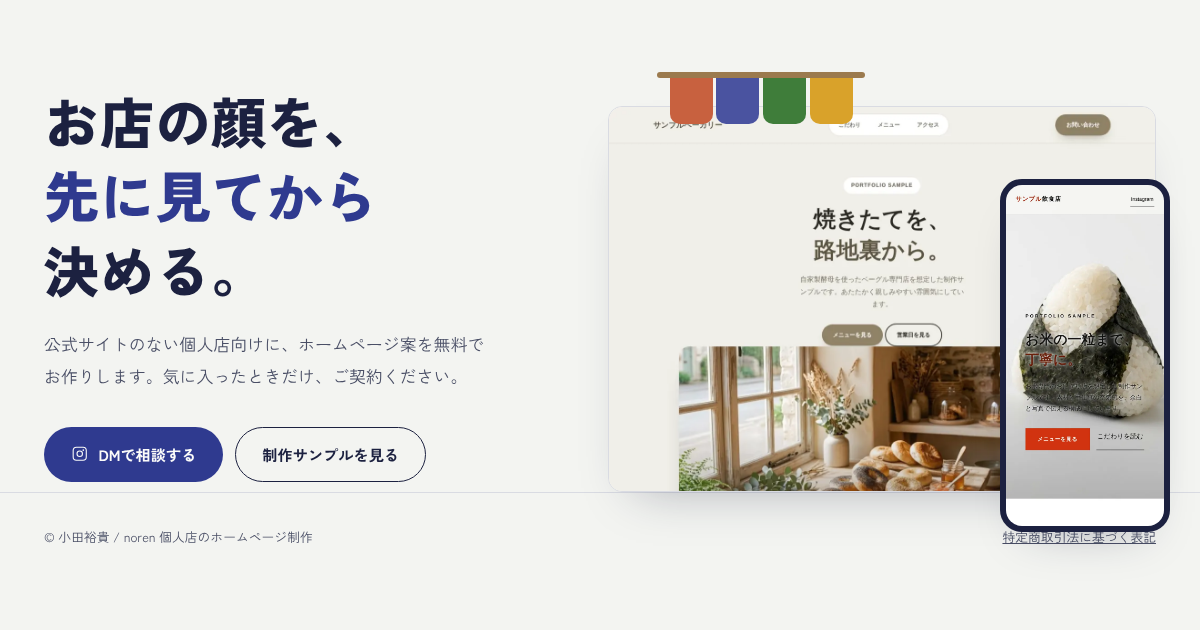
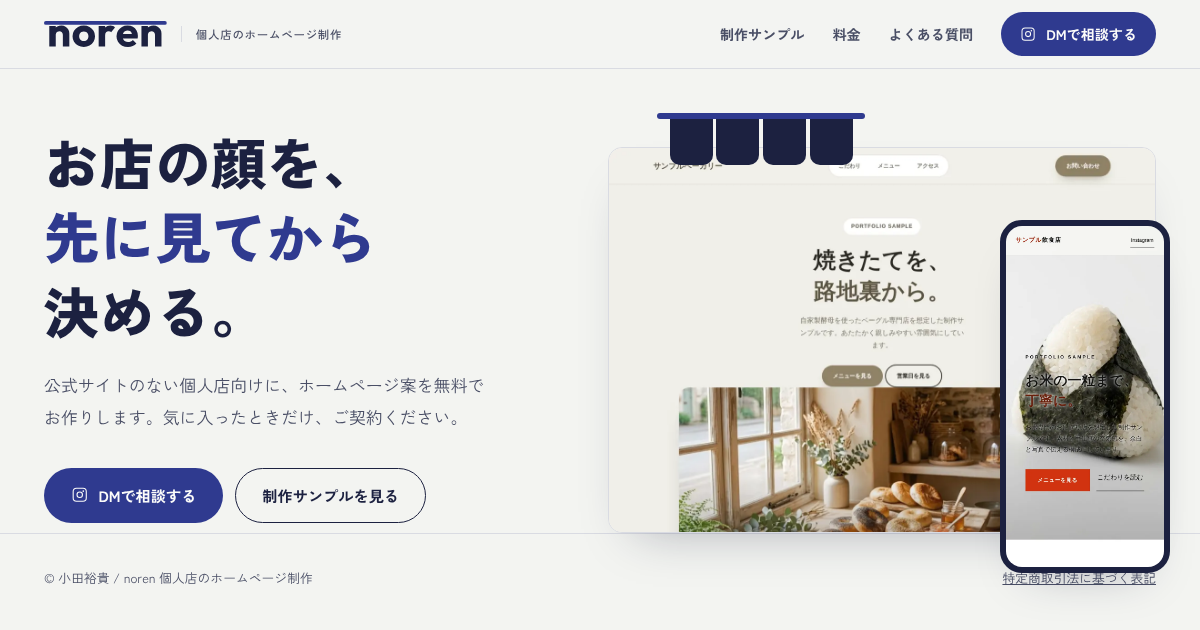
ロゴをD案(ワードマーク)に刷新
- ヘッダーをアウトライン化したワードマークSVGに変更
- favicon / apple-touch-icon / OGP画像を新ロゴで作り直し
- ヒーローと流れセクションのモチーフを藍と墨にそろえた

Claude-Session: https://claude.ai/code/session_01UPEPYMqqgQDRzwyjYxDbfw

diff --git a/portfolio/index.html b/portfolio/index.html
@@ -16,8 +16,9 @@
 <meta property="og:image" content="https://yuukioda999.github.io/web-mockups/portfolio/assets/og.png">
 <meta property="og:locale" content="ja_JP">
 <meta name="twitter:card" content="summary_large_image">
-<link rel="icon" href="./assets/icon-192.png">
-<link rel="apple-touch-icon" href="./assets/icon-192.png">
+<link rel="icon" href="./assets/favicon.svg" type="image/svg+xml">
+<link rel="icon" href="./assets/icon-192.png" type="image/png" sizes="192x192">
+<link rel="apple-touch-icon" href="./assets/apple-touch-icon.png">
 <link rel="preconnect" href="https://fonts.googleapis.com">
 <link rel="preconnect" href="https://fonts.gstatic.com" crossorigin>
 <link href="https://fonts.googleapis.com/css2?family=Zen+Kaku+Gothic+New:wght@400;500;700;900&display=swap" rel="stylesheet">
@@ -31,7 +32,7 @@
   "description":"公式サイトのない個人店向けのホームページ制作サービス。サイト案を無料でお作りし、気に入った場合のみご契約いただけます。",
   "url":"https://yuukioda999.github.io/web-mockups/portfolio/",
   "image":"https://yuukioda999.github.io/web-mockups/portfolio/assets/og.png",
-  "logo":"https://yuukioda999.github.io/web-mockups/portfolio/assets/icon-192.png",
+  "logo":"https://yuukioda999.github.io/web-mockups/portfolio/assets/icon-512.png",
   "email":"yuuki.oda.work@gmail.com",
   "areaServed":{"@type":"Country","name":"日本"},
   "founder":{"@type":"Person","name":"小田裕貴"},
@@ -111,9 +112,10 @@
   .process .noren-rod{height:8px;margin-top:40px;}
   .steps{list-style:none;display:grid;grid-template-columns:repeat(3,1fr);gap:14px;padding:0 3%;}
   .step{border-radius:0 0 var(--r-panel) var(--r-panel);padding:32px 26px 36px;color:#fcfcfa;}
-  .step:nth-child(1){background:#a94f31;}
-  .step:nth-child(2){background:#3d4590;}
-  .step:nth-child(3){background:#326b2e;}
+  .step:nth-child(1){background:#1c2140;}
+  .step:nth-child(2){background:#2f3a8f;}
+  .step:nth-child(3){background:#4a53a0;}
+  @media (prefers-color-scheme:dark){.step{box-shadow:inset 0 0 0 1px rgba(255,255,255,.12);}}
   .step h3{font-size:1.15rem;margin-bottom:10px;color:#fcfcfa;}
   .step p{font-size:.93rem;line-height:1.85;color:#f1f1ec;}
 
@@ -134,7 +136,7 @@
   /* about */
   .about{padding-top:0;}
   .about-box{display:grid;grid-template-columns:auto 1fr;gap:28px;align-items:start;max-width:820px;}
-  .about-box img{width:88px;height:88px;border-radius:20px;border:1px solid var(--line);}
+  .about-box .mark{width:88px;height:88px;display:block;}
   .about-box h2{font-size:1.3rem;margin-bottom:4px;}
   .about-box .role{font-size:.86rem;color:var(--ink-2);margin-bottom:12px;}
   .about-box p{color:var(--ink-2);}
@@ -188,7 +190,7 @@
     .plan{padding:28px 22px;}
     .price b{font-size:2rem;}
     .about-box{grid-template-columns:1fr;gap:18px;}
-    .about-box img{width:64px;height:64px;border-radius:16px;}
+    .about-box .mark{width:64px;height:64px;}
     .sp-bar{display:block;position:fixed;left:0;right:0;bottom:0;z-index:40;padding:10px 16px calc(10px + env(safe-area-inset-bottom));background:color-mix(in srgb,var(--bg) 92%,transparent);backdrop-filter:blur(10px);-webkit-backdrop-filter:blur(10px);border-top:1px solid var(--line);transform:translateY(110%);transition:transform .3s ease;}
     .sp-bar.on{transform:none;}
     .sp-bar .btn{width:100%;}
@@ -215,8 +217,8 @@
 <header class="site-head">
   <div class="wrap">
     <a class="brand" href="./" aria-label="noren トップ">
-      <img src="./assets/icon-160.webp" width="40" height="40" alt="">
-      <span><span class="brand-name">noren</span><span class="brand-sub">個人店のホームページ制作</span></span>
+      <svg class="wordmark" viewBox="-71 -604 2904 615" aria-hidden="true"><rect x="-71" y="-604" width="2904" height="89" rx="44.5" class="wm-rod"/><path class="wm-txt" d="M375 0V-277Q375 -315 351.5 -338.5Q328 -362 292 -362Q267 -362 248 -351.5Q229 -341 218 -321.5Q207 -302 207 -277V0H54V-486H207V-448Q223 -462 243 -473Q287 -496 343 -496Q397 -496 438.5 -470.5Q480 -445 504 -403Q528 -361 528 -311V0ZM870 11Q795 11 734.5 -22.5Q674 -56 639 -114Q604 -172 604 -244Q604 -316 639 -373Q674 -430 734 -463.5Q794 -497 870 -497Q946 -497 1006 -464Q1066 -431 1101 -373.5Q1136 -316 1136 -244Q1136 -172 1101 -114Q1066 -56 1006 -22.5Q946 11 870 11ZM870 -128Q903 -128 928 -142.5Q953 -157 966.5 -183.5Q980 -210 980 -244Q980 -278 966 -303.5Q952 -329 927.5 -343.5Q903 -358 870 -358Q838 -358 813 -343.5Q788 -329 774 -303Q760 -277 760 -243Q760 -210 774 -183.5Q788 -157 813 -142.5Q838 -128 870 -128ZM1222 0V-486H1375V-449Q1420 -496 1500 -496Q1535 -496 1561.5 -485.5Q1588 -475 1608 -453L1517 -338Q1507 -349 1492 -355Q1477 -361 1458 -361Q1420 -361 1397.5 -337.5Q1375 -314 1375 -267V0ZM1916 11Q1837 11 1775.5 -21.5Q1714 -54 1679 -112Q1644 -170 1644 -243Q1644 -316 1678.5 -373.5Q1713 -431 1772 -464Q1831 -497 1905 -497Q1977 -497 2032 -466Q2087 -435 2118.5 -380Q2150 -325 2150 -254Q2150 -241 2148.5 -226.5Q2147 -212 2143 -193L1795 -192Q1798 -181 1804 -171Q1819 -140 1847.5 -123.5Q1876 -107 1915 -107Q1951 -107 1980 -119.5Q2009 -132 2031 -157L2115 -73Q2079 -31 2028 -10Q1977 11 1916 11ZM1795 -297 2007 -298Q2004 -312 1999 -324Q1987 -351 1963.5 -365.5Q1940 -380 1906 -380Q1870 -380 1843.5 -363.5Q1817 -347 1803 -317Q1798 -308 1795 -297ZM2555 0V-277Q2555 -315 2531.5 -338.5Q2508 -362 2472 -362Q2447 -362 2428 -351.5Q2409 -341 2398 -321.5Q2387 -302 2387 -277V0H2234V-486H2387V-448Q2403 -462 2423 -473Q2467 -496 2523 -496Q2577 -496 2618.5 -470.5Q2660 -445 2684 -403Q2708 -361 2708 -311V0Z"/></svg>
+      <span class="brand-sub">個人店のホームページ制作</span>
     </a>
     <nav class="nav" aria-label="メイン">
       <a class="nav-link" href="#works">制作サンプル</a>
@@ -353,7 +355,7 @@
 <section class="about" aria-labelledby="about-title">
   <div class="wrap">
     <div class="about-box">
-      <img src="./assets/icon-160.webp" width="88" height="88" loading="lazy" alt="noren のロゴ">
+      <svg class="mark" viewBox="0 0 100 100" aria-hidden="true"><rect width="100" height="100" rx="22" fill="#1c2140"/><rect x="20" y="16" width="60" height="12" rx="6" fill="#a7b0f5"/><path transform="translate(20.9 85.6) scale(0.1)" fill="#fcfcfa" d="M375 0V-277Q375 -315 351.5 -338.5Q328 -362 292 -362Q267 -362 248 -351.5Q229 -341 218 -321.5Q207 -302 207 -277V0H54V-486H207V-448Q223 -462 243 -473Q287 -496 343 -496Q397 -496 438.5 -470.5Q480 -445 504 -403Q528 -361 528 -311V0Z"/></svg>
       <div>
         <h2 id="about-title">小田裕貴</h2>
         <p class="role">noren 運営者・フリーランスエンジニア</p>

diff --git a/portfolio/assets/site.css b/portfolio/assets/site.css
@@ -1,7 +1,7 @@
 /* noren shared styles
    Radius system: buttons = pill (999px) / panels & images = 14px / small chips = 8px
    Theme: auto (prefers-color-scheme). One accent: 藍 (indigo).
-   The four noren colors are used ONLY in the noren brand mark (.noren). */
+   Brand device (logo D): a 藍 rod over 墨 shapes, mirroring the wordmark. */
 :root{
   --bg:#f3f4f1;
   --surface:#fcfcfa;
@@ -14,7 +14,7 @@
   --accent-hover:#232c73;
   --focus:#2f3a8f;
   --shadow:0 24px 48px -28px rgba(28,33,64,.35);
-  --n1:#c8613f; --n2:#4a53a0; --n3:#3f7d3a; --n4:#d9a22a;
+
   --r-panel:14px; --r-chip:8px;
   color-scheme:light;
 }
@@ -56,17 +56,18 @@ h1,h2,h3{font-weight:700;line-height:1.45;letter-spacing:.02em;word-break:auto-p
 /* header */
 .site-head{position:sticky;top:0;z-index:50;background:color-mix(in srgb,var(--bg) 88%,transparent);backdrop-filter:blur(10px);-webkit-backdrop-filter:blur(10px);border-bottom:1px solid var(--line);}
 .site-head .wrap{display:flex;align-items:center;justify-content:space-between;gap:16px;height:68px;}
-.brand{display:flex;align-items:center;gap:10px;text-decoration:none;}
-.brand img{width:40px;height:40px;border-radius:10px;}
-.brand-name{font-weight:900;font-size:1.25rem;letter-spacing:.04em;line-height:1.1;}
-.brand-sub{display:block;font-size:.68rem;font-weight:500;color:var(--ink-2);letter-spacing:.06em;}
+.brand{display:flex;align-items:center;gap:14px;text-decoration:none;}
+.wordmark{display:block;height:26px;width:auto;}
+.wm-rod{fill:var(--accent);}
+.wm-txt{fill:var(--ink);}
+.brand-sub{display:block;font-size:.72rem;font-weight:500;color:var(--ink-2);letter-spacing:.06em;padding-left:14px;border-left:1px solid var(--line);line-height:1.4;}
 .nav{display:flex;align-items:center;gap:28px;}
 .nav a{font-size:.88rem;font-weight:700;color:var(--ink-2);text-decoration:none;padding:6px 0;}
 .nav a:hover{color:var(--ink);}
 .nav a.btn-primary{color:var(--accent-ink);padding:8px 18px;}
 .nav a.btn-primary:hover{color:var(--accent-ink);}
 @media (max-width:860px){.nav a.nav-link{display:none;}}
-@media (max-width:440px){.brand-sub{display:none;}.brand img{width:36px;height:36px;}}
+@media (max-width:440px){.brand-sub{display:none;}.wordmark{height:22px;}}
 
 /* buttons */
 .btn{display:inline-flex;align-items:center;justify-content:center;gap:10px;min-height:48px;padding:12px 26px;border-radius:999px;font-weight:700;font-size:.95rem;text-decoration:none;white-space:nowrap;border:1.5px solid transparent;
@@ -80,13 +81,10 @@ h1,h2,h3{font-weight:700;line-height:1.45;letter-spacing:.02em;word-break:auto-p
 
 /* noren brand mark: rod + 4 cloths */
 .noren{display:flex;flex-direction:column;align-items:stretch;}
-.noren-rod{height:6px;border-radius:3px;background:#9b7a4e;}
+.noren-rod{height:6px;border-radius:3px;background:var(--accent);}
 .noren-cloths{display:grid;grid-template-columns:repeat(4,1fr);gap:4px;padding:0 6%;}
 .noren-cloths span{display:block;border-radius:0 0 10px 10px;transform-origin:top center;}
-.noren-cloths span:nth-child(1){background:var(--n1);}
-.noren-cloths span:nth-child(2){background:var(--n2);}
-.noren-cloths span:nth-child(3){background:var(--n3);}
-.noren-cloths span:nth-child(4){background:var(--n4);}
+.noren-cloths span{background:var(--ink);}
 
 /* footer */
 .site-foot{border-top:1px solid var(--line);padding:32px 0 40px;font-size:.8rem;color:var(--ink-2);}

diff --git a/portfolio/legal.html b/portfolio/legal.html
@@ -8,8 +8,9 @@
 <meta name="robots" content="noindex, nofollow">
 <meta name="theme-color" content="#f3f4f1" media="(prefers-color-scheme: light)">
 <meta name="theme-color" content="#121429" media="(prefers-color-scheme: dark)">
-<link rel="icon" href="./assets/icon-192.png">
-<link rel="apple-touch-icon" href="./assets/icon-192.png">
+<link rel="icon" href="./assets/favicon.svg" type="image/svg+xml">
+<link rel="icon" href="./assets/icon-192.png" type="image/png" sizes="192x192">
+<link rel="apple-touch-icon" href="./assets/apple-touch-icon.png">
 <link rel="preconnect" href="https://fonts.googleapis.com">
 <link rel="preconnect" href="https://fonts.gstatic.com" crossorigin>
 <link href="https://fonts.googleapis.com/css2?family=Zen+Kaku+Gothic+New:wght@400;500;700;900&display=swap" rel="stylesheet">
@@ -41,8 +42,8 @@
 <header class="site-head">
   <div class="wrap">
     <a class="brand" href="./" aria-label="noren トップ">
-      <img src="./assets/icon-160.webp" width="40" height="40" alt="">
-      <span><span class="brand-name">noren</span><span class="brand-sub">個人店のホームページ制作</span></span>
+      <svg class="wordmark" viewBox="-71 -604 2904 615" aria-hidden="true"><rect x="-71" y="-604" width="2904" height="89" rx="44.5" class="wm-rod"/><path class="wm-txt" d="M375 0V-277Q375 -315 351.5 -338.5Q328 -362 292 -362Q267 -362 248 -351.5Q229 -341 218 -321.5Q207 -302 207 -277V0H54V-486H207V-448Q223 -462 243 -473Q287 -496 343 -496Q397 -496 438.5 -470.5Q480 -445 504 -403Q528 -361 528 -311V0ZM870 11Q795 11 734.5 -22.5Q674 -56 639 -114Q604 -172 604 -244Q604 -316 639 -373Q674 -430 734 -463.5Q794 -497 870 -497Q946 -497 1006 -464Q1066 -431 1101 -373.5Q1136 -316 1136 -244Q1136 -172 1101 -114Q1066 -56 1006 -22.5Q946 11 870 11ZM870 -128Q903 -128 928 -142.5Q953 -157 966.5 -183.5Q980 -210 980 -244Q980 -278 966 -303.5Q952 -329 927.5 -343.5Q903 -358 870 -358Q838 -358 813 -343.5Q788 -329 774 -303Q760 -277 760 -243Q760 -210 774 -183.5Q788 -157 813 -142.5Q838 -128 870 -128ZM1222 0V-486H1375V-449Q1420 -496 1500 -496Q1535 -496 1561.5 -485.5Q1588 -475 1608 -453L1517 -338Q1507 -349 1492 -355Q1477 -361 1458 -361Q1420 -361 1397.5 -337.5Q1375 -314 1375 -267V0ZM1916 11Q1837 11 1775.5 -21.5Q1714 -54 1679 -112Q1644 -170 1644 -243Q1644 -316 1678.5 -373.5Q1713 -431 1772 -464Q1831 -497 1905 -497Q1977 -497 2032 -466Q2087 -435 2118.5 -380Q2150 -325 2150 -254Q2150 -241 2148.5 -226.5Q2147 -212 2143 -193L1795 -192Q1798 -181 1804 -171Q1819 -140 1847.5 -123.5Q1876 -107 1915 -107Q1951 -107 1980 -119.5Q2009 -132 2031 -157L2115 -73Q2079 -31 2028 -10Q1977 11 1916 11ZM1795 -297 2007 -298Q2004 -312 1999 -324Q1987 -351 1963.5 -365.5Q1940 -380 1906 -380Q1870 -380 1843.5 -363.5Q1817 -347 1803 -317Q1798 -308 1795 -297ZM2555 0V-277Q2555 -315 2531.5 -338.5Q2508 -362 2472 -362Q2447 -362 2428 -351.5Q2409 -341 2398 -321.5Q2387 -302 2387 -277V0H2234V-486H2387V-448Q2403 -462 2423 -473Q2467 -496 2523 -496Q2577 -496 2618.5 -470.5Q2660 -445 2684 -403Q2708 -361 2708 -311V0Z"/></svg>
+      <span class="brand-sub">個人店のホームページ制作</span>
     </a>
     <a class="back" href="./">トップに戻る</a>
   </div>
